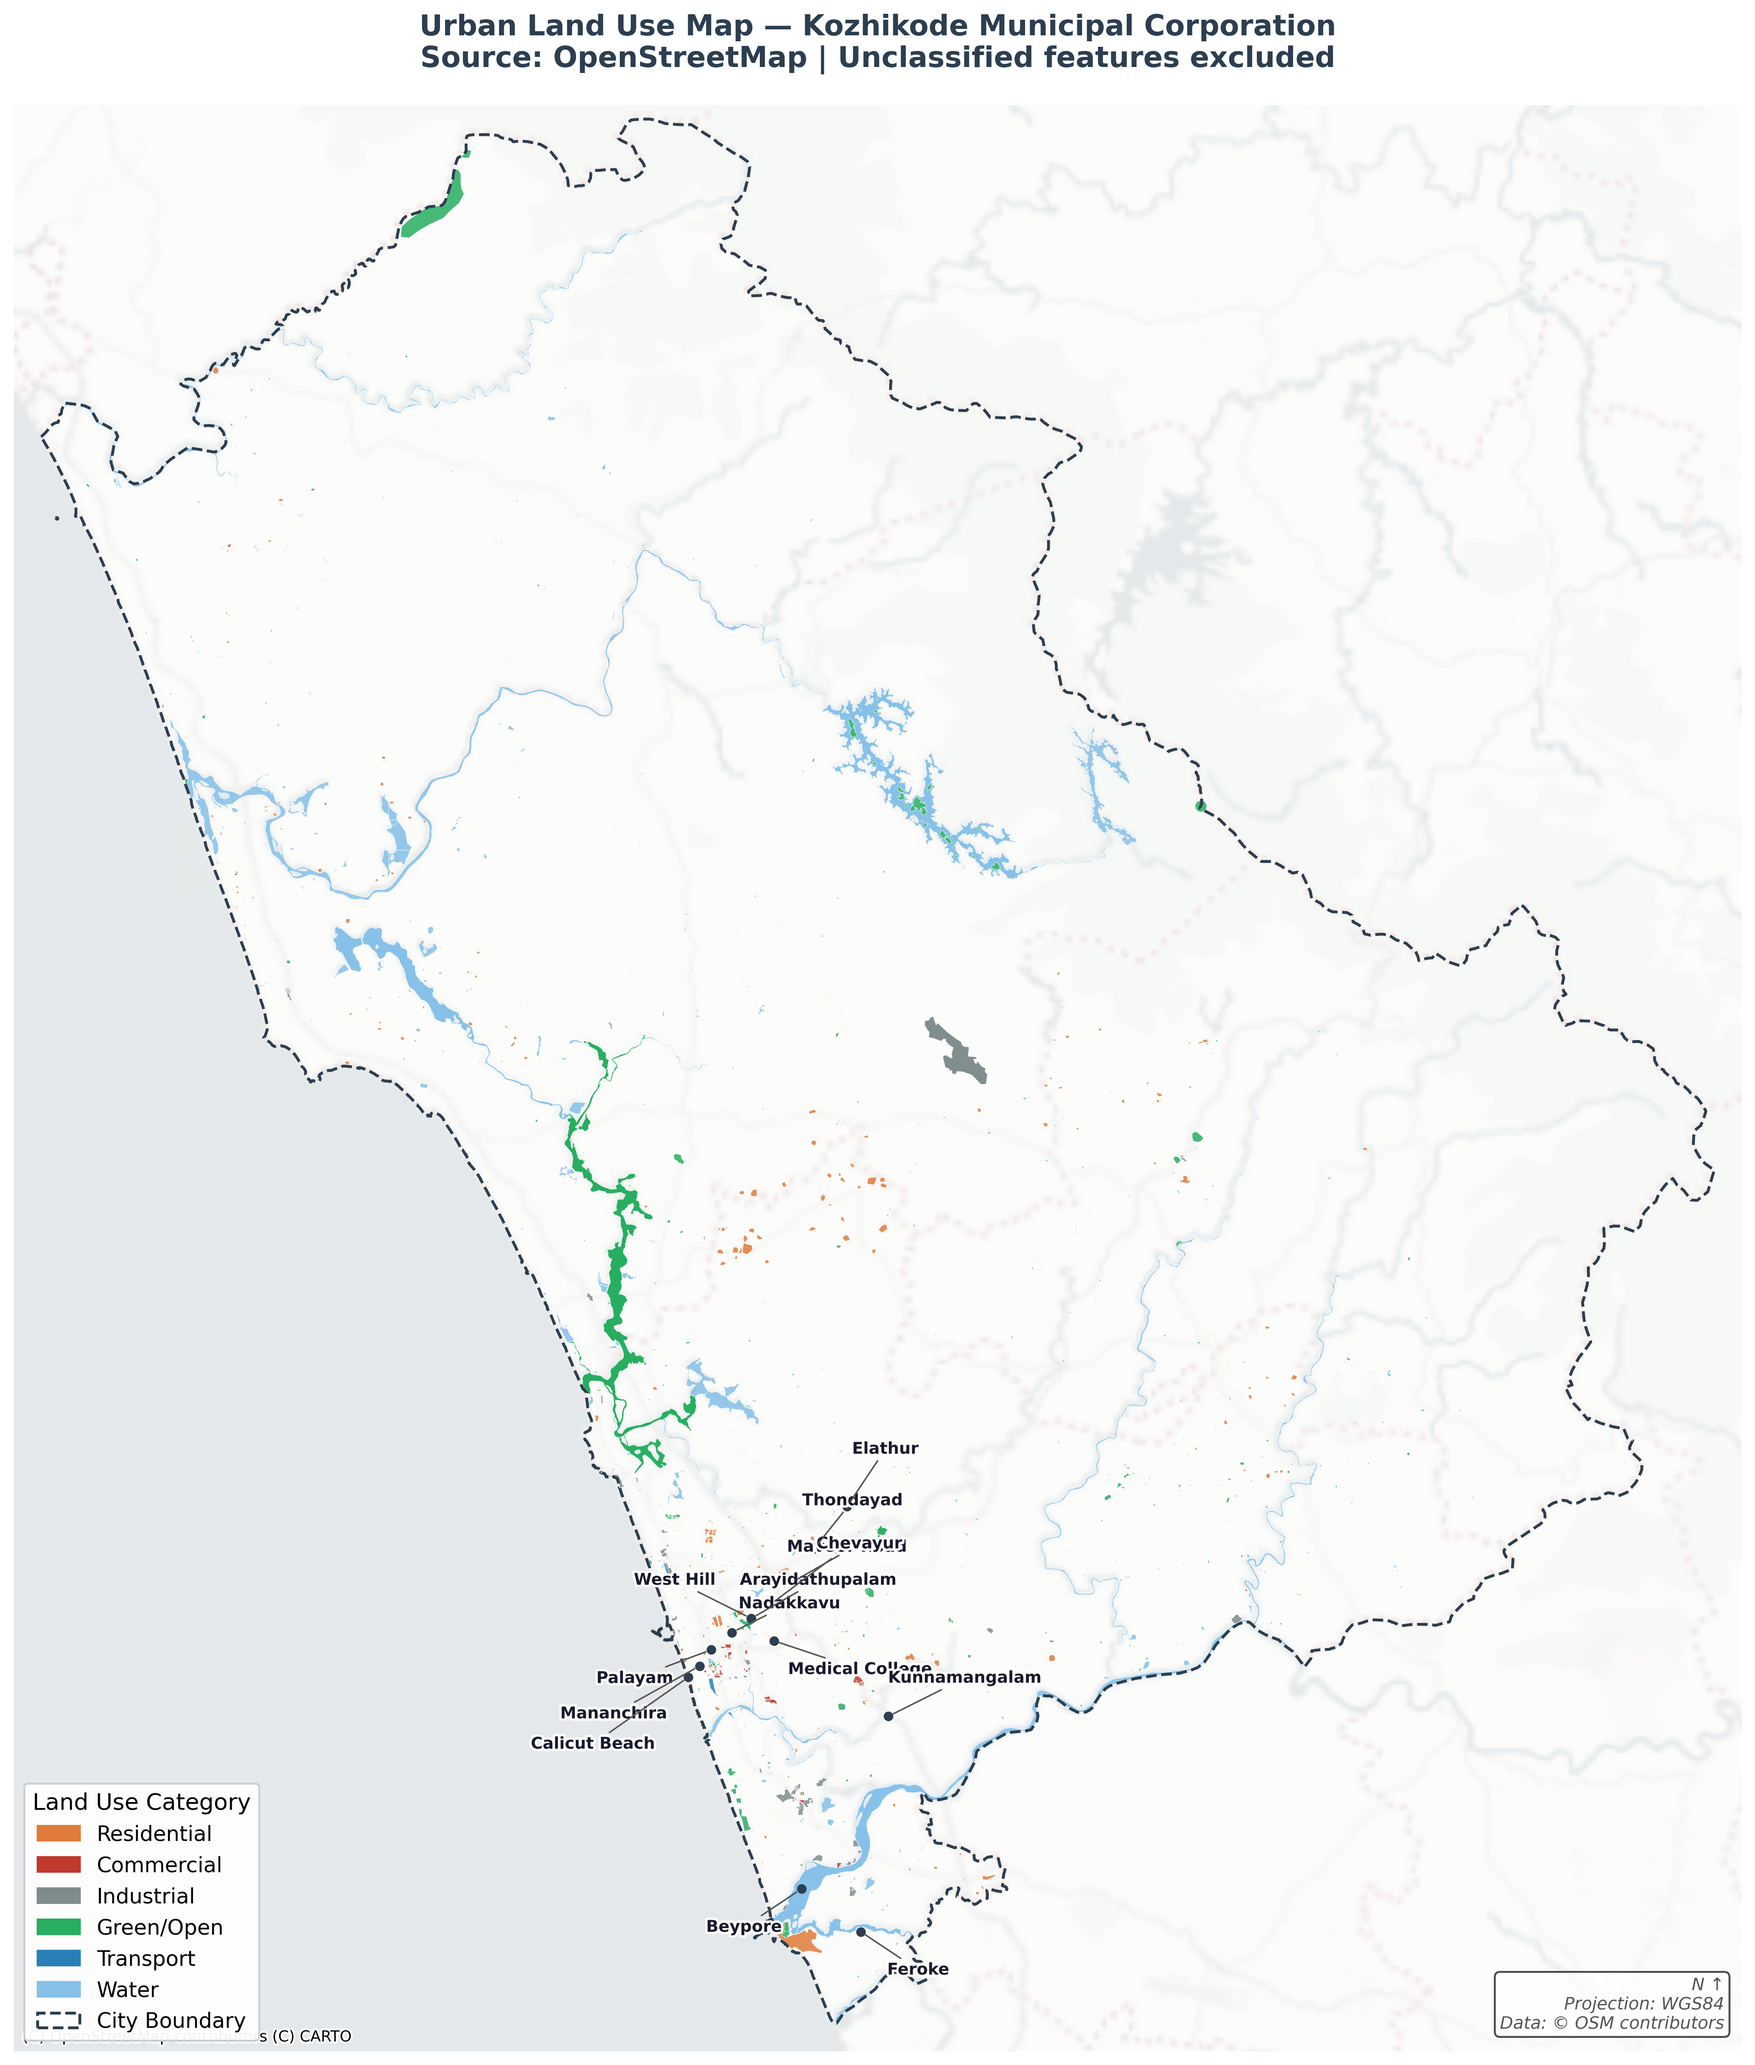
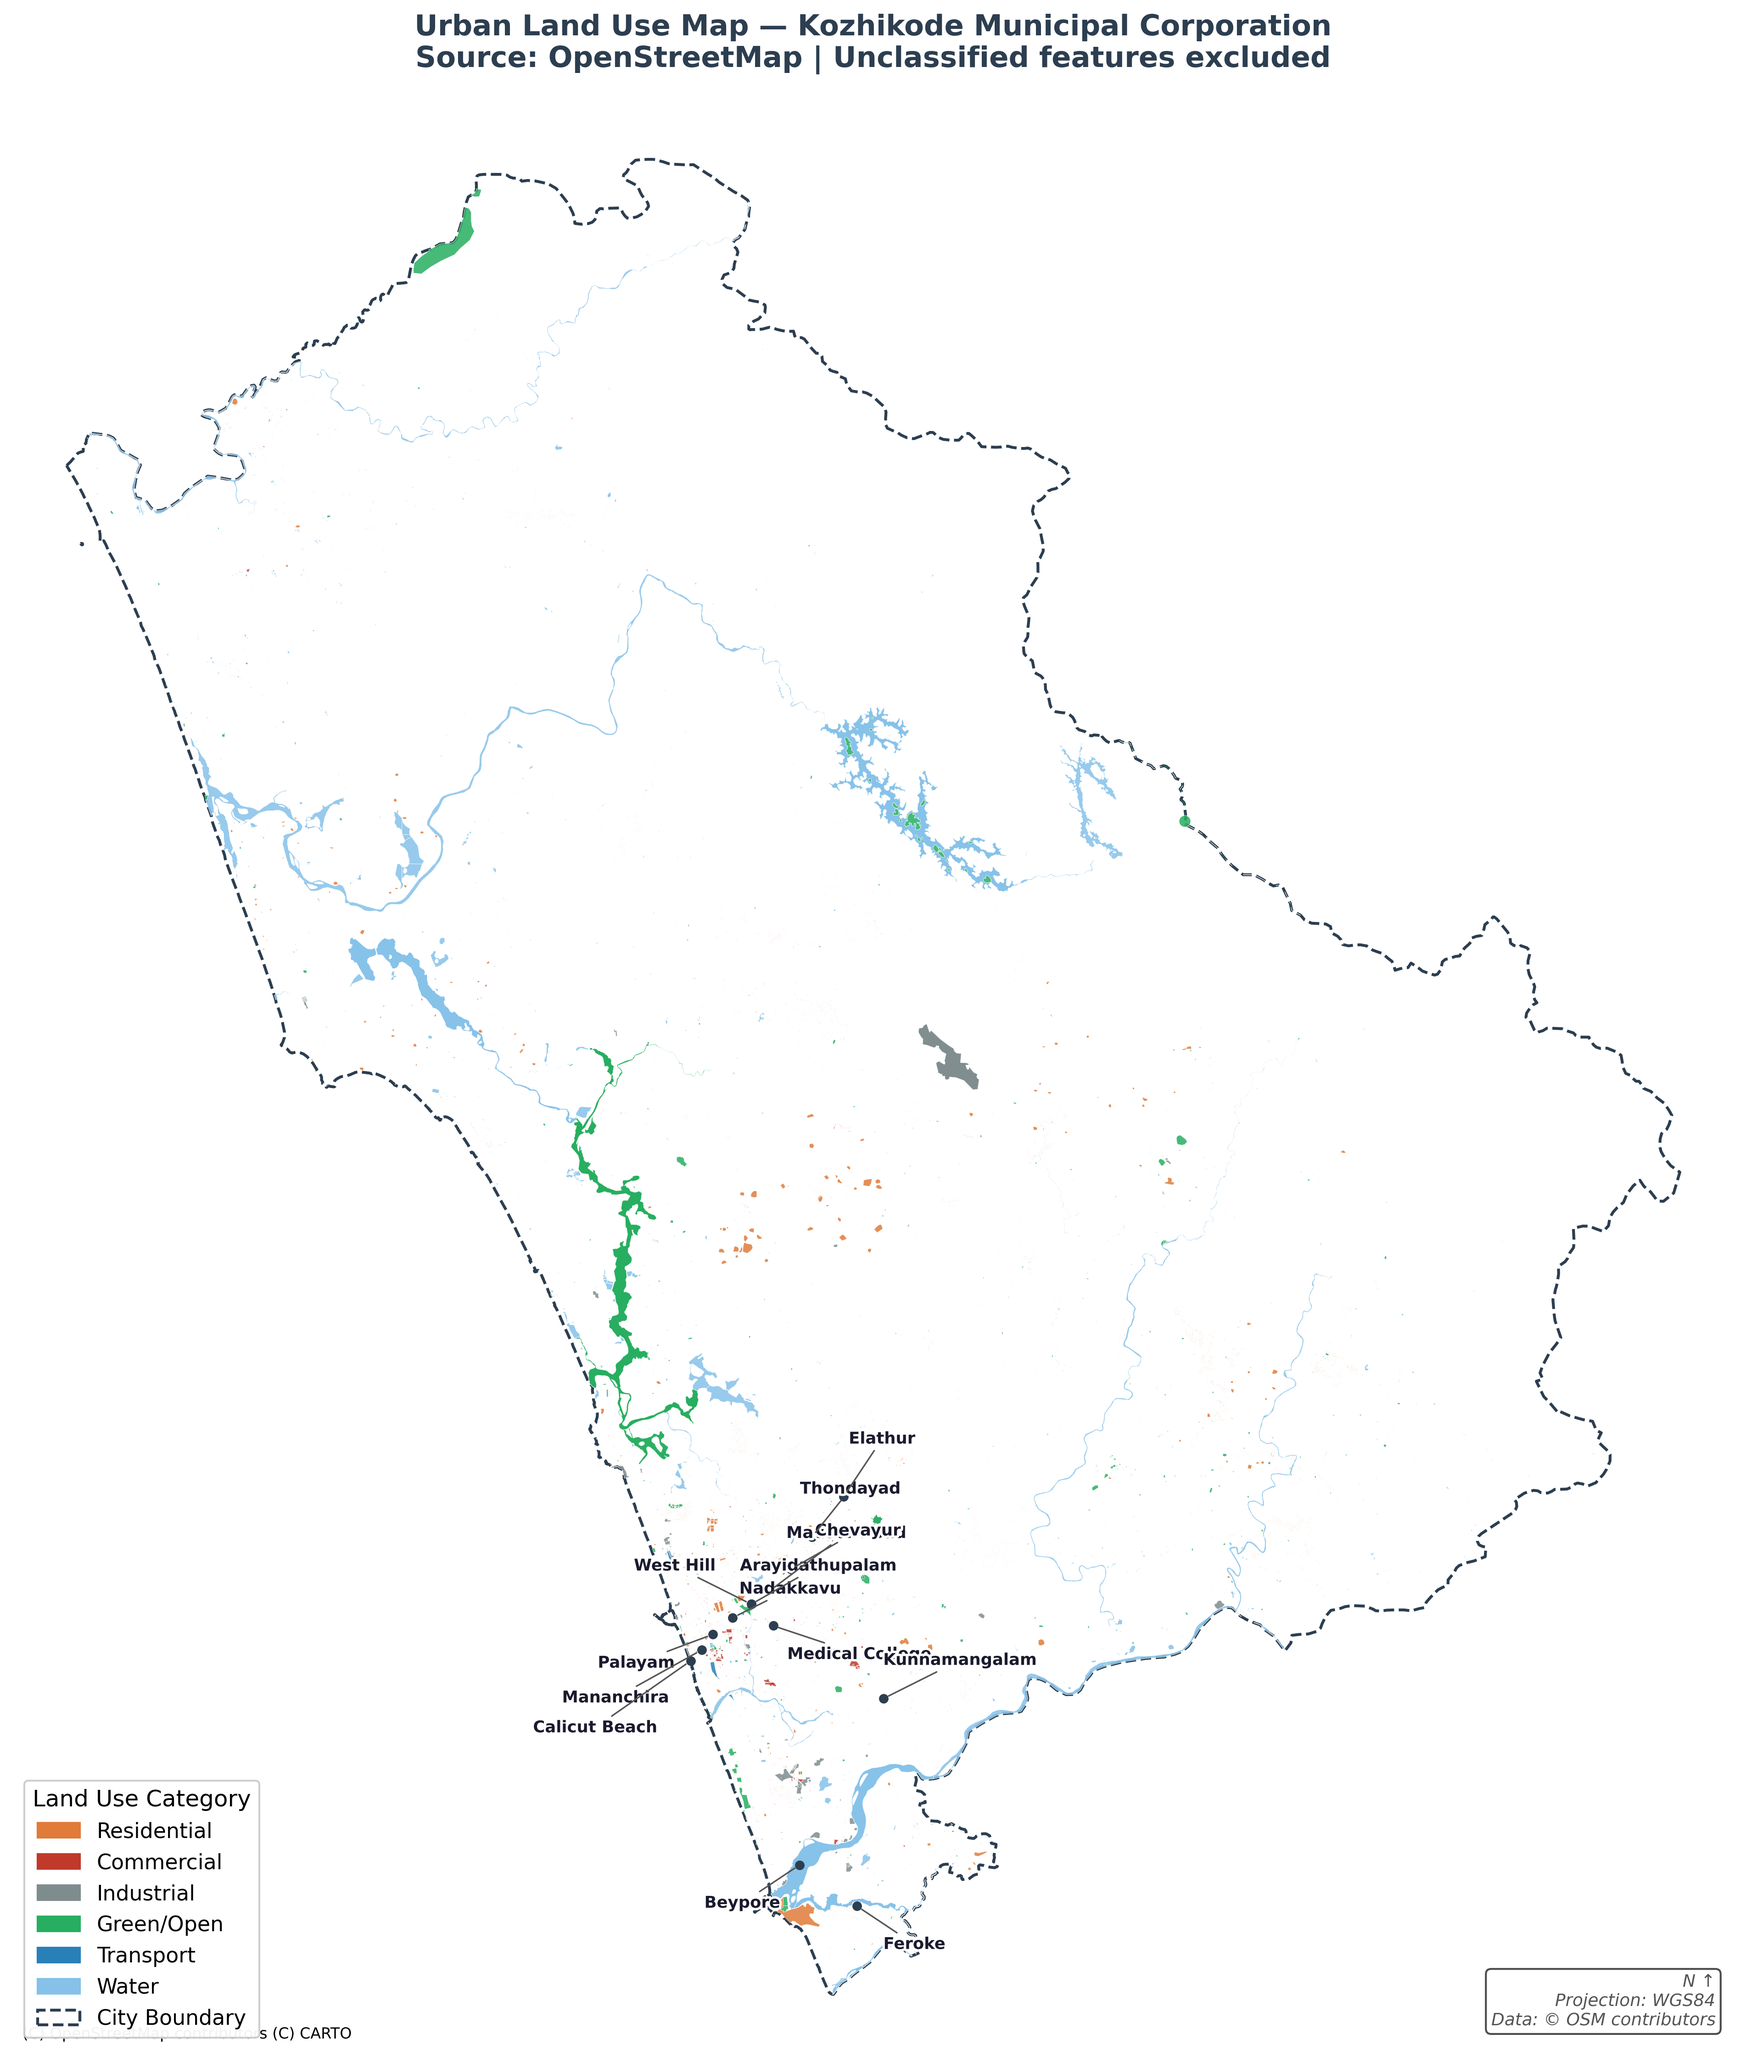
Add: plot for calicut

diff --git a/scripts/03_map.py b/scripts/03_map.py
@@ -2,7 +2,6 @@ import geopandas as gpd
 import matplotlib.pyplot as plt
 import matplotlib.patches as mpatches
 import contextily as ctx
-import osmnx as ox
 import pandas as pd
 import matplotlib.patheffects as pe
 from shapely.geometry import Point, box
@@ -15,13 +14,13 @@ import numpy as np
 gdf = gpd.read_file('data/processed/landuse_classified.geojson')
 gdf_wgs = gdf.to_crs(epsg=4326)
 
-# ── Clip to actual Municipal Corporation boundary ─────────────────────────────
+# ── City boundary ─────────────────────────────────────────────────────────────
 city = gpd.read_file('data/raw/kozhikode_boundary.geojson')
-gdf_wgs = gpd.clip(gdf_wgs, city)
+city_wgs = city.to_crs(epsg=4326)
+gdf_wgs = gpd.clip(gdf_wgs, city_wgs)
 
-# ── Drop "Other" — adds noise, not information ────────────────────────────────
+# ── Drop "Other" ──────────────────────────────────────────────────────────────
 gdf_plot = gdf_wgs[gdf_wgs['landuse_class'] != 'Other'].copy()
-
 print("Features being plotted (excluding Other):")
 print(gdf_plot['landuse_class'].value_counts())
 
@@ -35,36 +34,33 @@ color_map = {
     'Water':       '#85C1E9',
 }
 
-# ── Plot ──────────────────────────────────────────────────────────────────────
+# ── Figure ────────────────────────────────────────────────────────────────────
 fig, ax = plt.subplots(1, 1, figsize=(13, 15))
 
-layer_order = ['Water', 'Green/Open', 'Transport', 'Industrial', 'Commercial', 'Residential']
+# ── Set extent first so basemap tiles load correctly ─────────────────────────
+minx, miny, maxx, maxy = city_wgs.total_bounds
+pad = 0.02
+ax.set_xlim(minx - pad, maxx + pad)
+ax.set_ylim(miny - pad, maxy + pad)
 
-for cat in layer_order:
-    subset = gdf_plot[gdf_plot['landuse_class'] == cat]
-    if len(subset) == 0:
-        continue
-    subset.plot(
-        ax=ax,
-        color=color_map[cat],
-        alpha=0.85,
-        linewidth=0.2,
-        edgecolor='white'
-    )
+# ── LAYER ORDER (bottom to top):
+#    1. Basemap
+#    2. White mask (outside city)
+#    3. City boundary line
+#    4. Land use features
+#    5. Place labels
 
-# ── Basemap (add before mask so mask sits on top) ─────────────────────────────
-city_wgs = city.to_crs(epsg=4326)
-
+# ── 1. Basemap ────────────────────────────────────────────────────────────────
 ctx.add_basemap(
     ax,
     crs=gdf_wgs.crs.to_string(),
     source=ctx.providers.CartoDB.PositronNoLabels,
-    alpha=0.6
+    alpha=0.6,
+    zorder=1
 )
 
-# ── Mask everything outside city boundary ─────────────────────────────────────
+# ── 2. White mask outside city boundary ──────────────────────────────────────
 def polygon_to_patch(geom, **kwargs):
-    """Convert a shapely polygon/multipolygon to a matplotlib PathPatch."""
     if geom.geom_type == 'MultiPolygon':
         paths = []
         for poly in geom.geoms:
@@ -74,11 +70,11 @@ def polygon_to_patch(geom, **kwargs):
                      [Path.CLOSEPOLY])
             paths.append(Path(exterior, codes))
             for interior in poly.interiors:
-                interior_coords = np.array(interior.coords)
+                ic = np.array(interior.coords)
                 codes = ([Path.MOVETO] +
-                         [Path.LINETO] * (len(interior_coords) - 2) +
+                         [Path.LINETO] * (len(ic) - 2) +
                          [Path.CLOSEPOLY])
-                paths.append(Path(interior_coords, codes))
+                paths.append(Path(ic, codes))
         combined = Path.make_compound_path(*paths)
         return PathPatch(combined, **kwargs)
     else:
@@ -86,38 +82,46 @@ def polygon_to_patch(geom, **kwargs):
         codes = ([Path.MOVETO] +
                  [Path.LINETO] * (len(exterior) - 2) +
                  [Path.CLOSEPOLY])
-        path = Path(exterior, codes)
-        return PathPatch(path, **kwargs)
+        return PathPatch(Path(exterior, codes), **kwargs)
 
-minx, miny, maxx, maxy = city_wgs.total_bounds
-pad = 0.02
 big_box = box(minx - pad, miny - pad, maxx + pad, maxy + pad)
 city_union = unary_union(city_wgs.geometry)
 mask_geom = big_box.difference(city_union)
 
-mask_patch = polygon_to_patch(
+ax.add_patch(polygon_to_patch(
     mask_geom,
     facecolor='white',
     edgecolor='none',
-    zorder=4,
+    zorder=2,
     linewidth=0
-)
-ax.add_patch(mask_patch)
+))
 
-# ── City boundary drawn on top of mask ───────────────────────────────────────
+# ── 3. City boundary line ─────────────────────────────────────────────────────
 city_wgs.boundary.plot(
     ax=ax,
     color='#2C3E50',
     linewidth=1.5,
     linestyle='--',
-    zorder=5
+    zorder=3
 )
 
-# ── Zoom to city boundary extent ──────────────────────────────────────────────
-ax.set_xlim(minx - pad, maxx + pad)
-ax.set_ylim(miny - pad, maxy + pad)
+# ── 4. Land use features (above mask) ────────────────────────────────────────
+layer_order = ['Water', 'Green/Open', 'Transport', 'Industrial', 'Commercial', 'Residential']
 
-# ── Place name labels with offset leader lines ────────────────────────────────
+for i, cat in enumerate(layer_order):
+    subset = gdf_plot[gdf_plot['landuse_class'] == cat]
+    if len(subset) == 0:
+        continue
+    subset.plot(
+        ax=ax,
+        color=color_map[cat],
+        alpha=0.85,
+        linewidth=0.2,
+        edgecolor='white',
+        zorder=4 + i       # each layer slightly above the previous
+    )
+
+# ── 5. Place name labels ──────────────────────────────────────────────────────
 known_places = pd.DataFrame({
     'name': [
         'Palayam', 'Mananchira', 'Calicut Beach', 'Nadakkavu',
@@ -137,18 +141,8 @@ known_places = pd.DataFrame({
         11.2830, 11.2950, 11.2700, 11.3100,
         11.1733, 11.1580, 11.2350
     ],
-    'dx': [
-        -40, -45, -50,  30,
-         35,  40,  45,
-         35,  20, -40,  20,
-        -30,  30,  40
-    ],
-    'dy': [
-        -15, -25, -35,  15,
-         20,  30, -15,
-         20,  25,  20,  30,
-        -20, -20,  20
-    ]
+    'dx': [-40, -45, -50,  30,  35,  40,  45,  35,  20, -40,  20, -30,  30,  40],
+    'dy': [-15, -25, -35,  15,  20,  30, -15,  20,  25,  20,  30, -20, -20,  20]
 })
 
 geometry = [Point(xy) for xy in zip(known_places.lon, known_places.lat)]
@@ -156,12 +150,11 @@ places_wgs = gpd.GeoDataFrame(known_places, geometry=geometry, crs='EPSG:4326')
 
 for idx, row in places_wgs.iterrows():
     x, y = row.geometry.x, row.geometry.y
-    dx, dy = row['dx'], row['dy']
-    ax.plot(x, y, 'o', color='#2C3E50', markersize=4, zorder=6)
+    ax.plot(x, y, 'o', color='#2C3E50', markersize=4, zorder=11)
     ax.annotate(
         row['name'],
         xy=(x, y),
-        xytext=(dx, dy),
+        xytext=(row['dx'], row['dy']),
         textcoords='offset points',
         fontsize=8.5,
         fontweight='bold',
@@ -176,7 +169,7 @@ for idx, row in places_wgs.iterrows():
             shrinkB=3
         ),
         path_effects=[pe.withStroke(linewidth=2.5, foreground='white')],
-        zorder=7
+        zorder=12
     )
 
 # ── Legend ────────────────────────────────────────────────────────────────────
